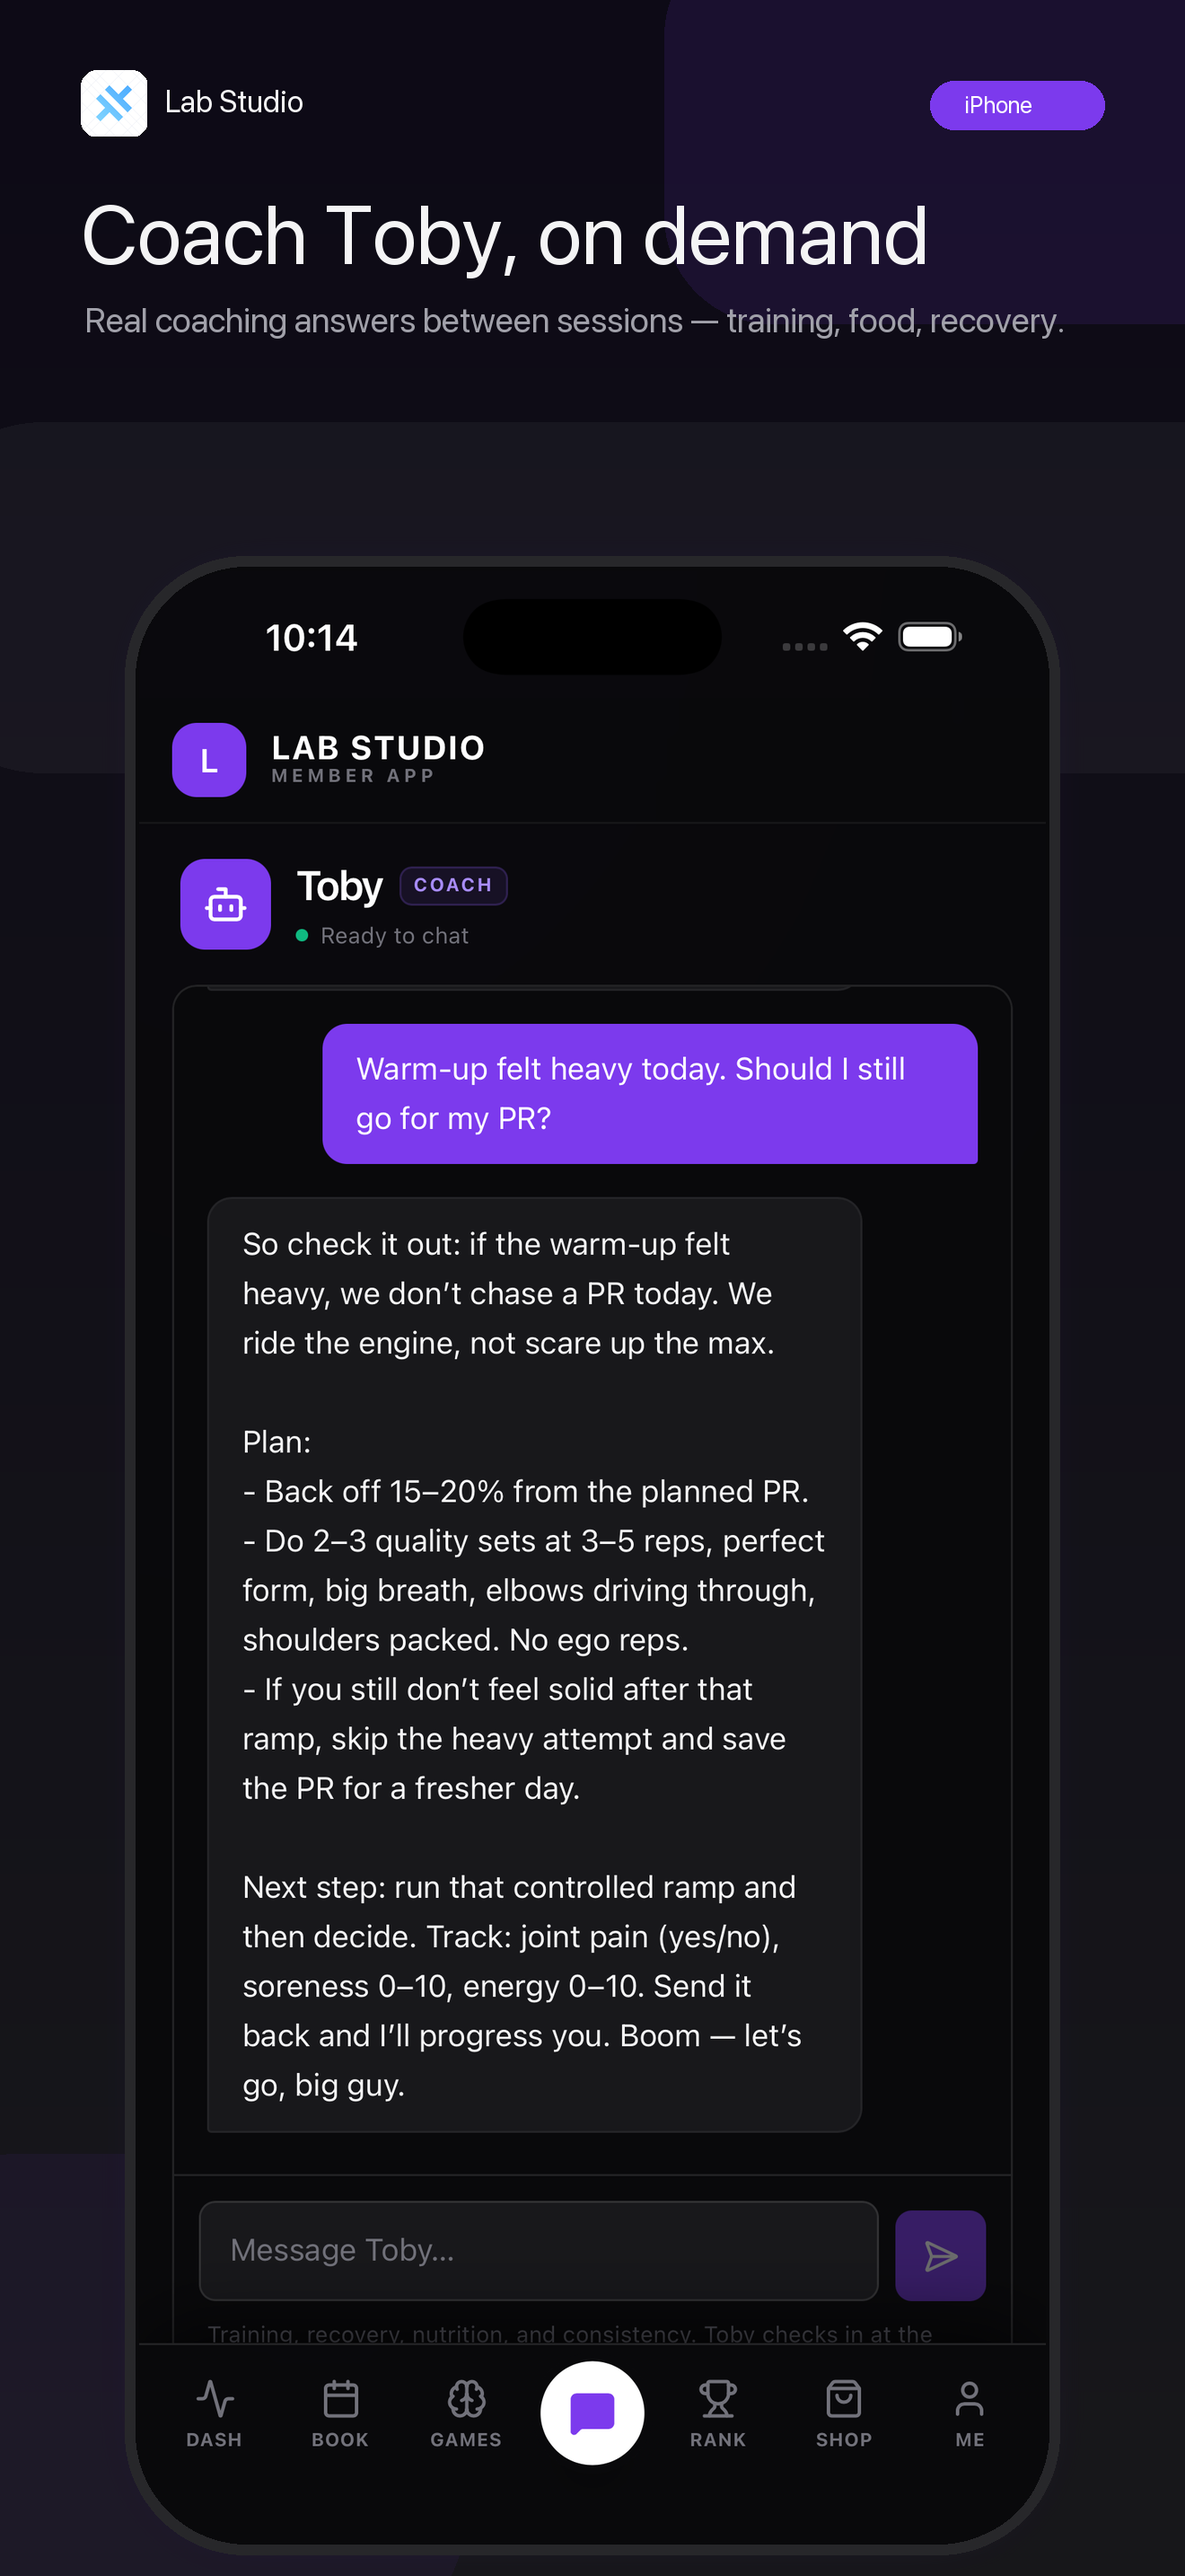
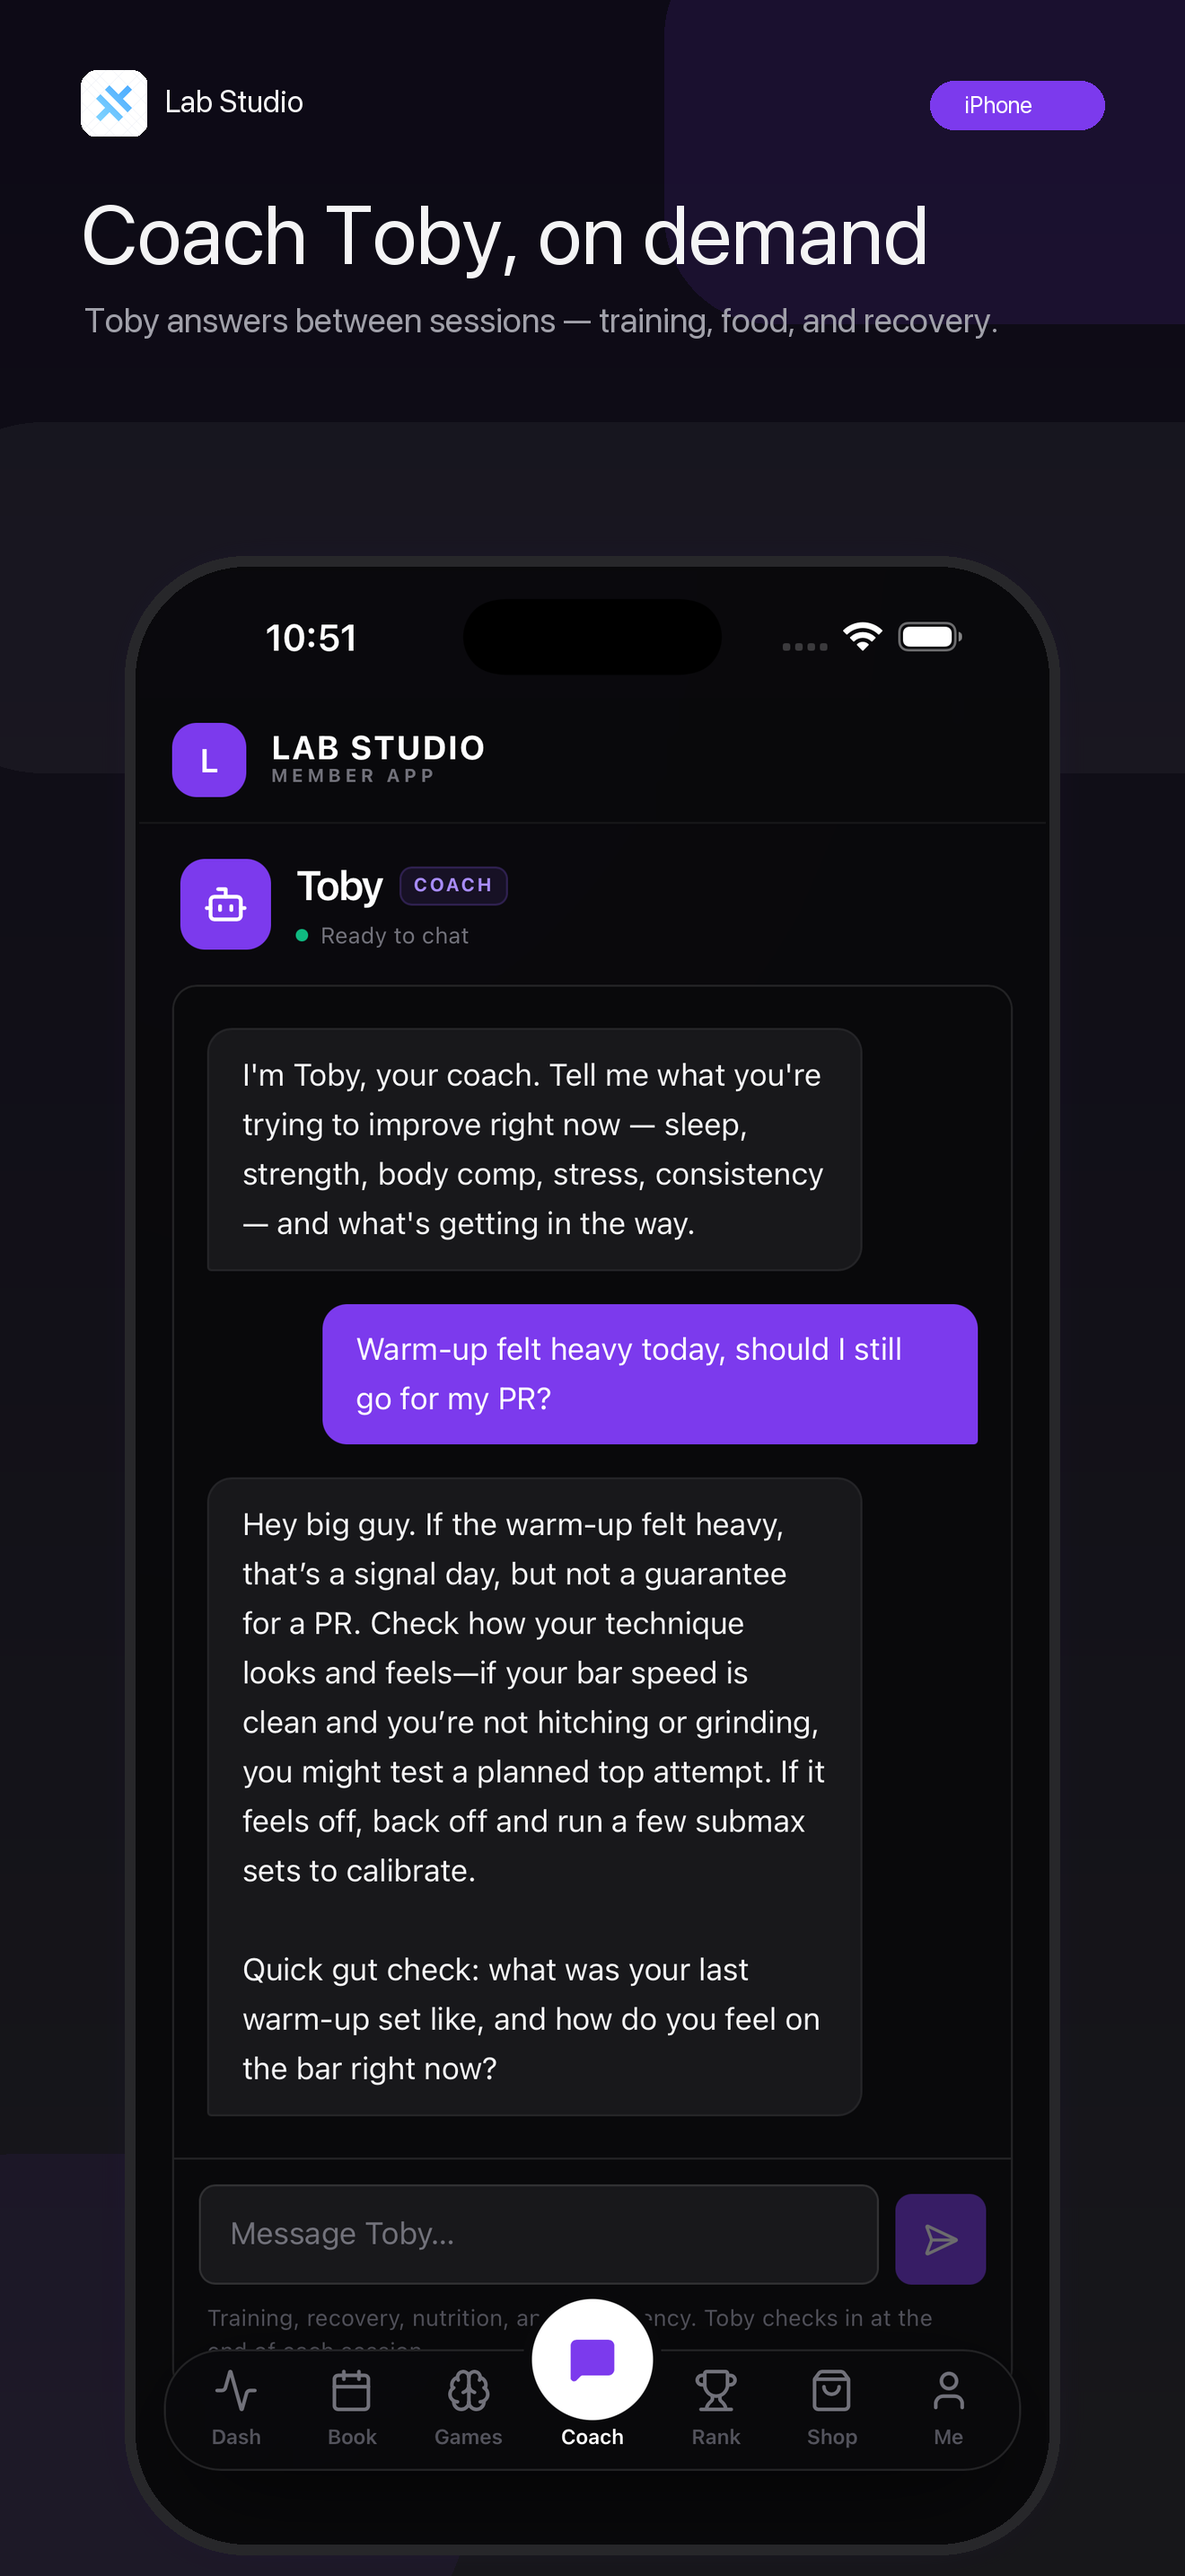
Refresh marketing screenshots: premium menu bar, human Toby voice, fixed copy
- Recaptured all 5 previews from the native app after the premium-tab-bar and
  Toby-voice work; frames now show the floating glass menu and real warm replies.
- Copy fixes from the critique panel: drop 'gym in your pocket' cliche and 'Real'
  (AI-accuracy), fix brain-training plurals, drop 'secure', name Google Calendar.
- Shop framed on memberships so the gym's third-party-branded cafe photos are not
  the marketing hero.

diff --git a/scripts/render-labstudio-app-store-previews.py b/scripts/render-labstudio-app-store-previews.py
@@ -145,28 +145,28 @@ def render_one(output_name: str, source_name: str, headline: str, subhead: str) 
 def main() -> None:
     render_one(
         "01-your-gym-preview-6-9.png", "01-dash.png",
-        "Your gym in your pocket",
-        "Your next session, coach plan, and progress the moment you sign in.",
+        "Your whole gym in one app",
+        "See your next session, coach plan, and progress the moment you sign in.",
     )
     render_one(
         "02-coach-toby-preview-6-9.png", "03-toby.png",
         "Coach Toby, on demand",
-        "Real coaching answers between sessions — training, food, recovery.",
+        "Toby answers between sessions — training, food, and recovery.",
     )
     render_one(
         "03-book-sessions-preview-6-9.png", "02-book.png",
         "Book your next session",
-        "Live availability synced with the studio calendar.",
+        "Booking synced with the studio's Google Calendar.",
     )
     render_one(
         "04-passes-memberships-preview-6-9.png", "04-shop.png",
         "Passes and memberships",
-        "Day passes to monthly memberships with secure Stripe checkout.",
+        "Day passes to monthly memberships with Stripe checkout.",
     )
     render_one(
         "05-brain-training-preview-6-9.png", "05-games.png",
-        "Train your brain too",
-        "Reaction games, challenges, and the studio leaderboard.",
+        "Test your reflexes, earn points",
+        "The Reaction Lab speed challenge, points, and the studio leaderboard.",
     )
 
 
